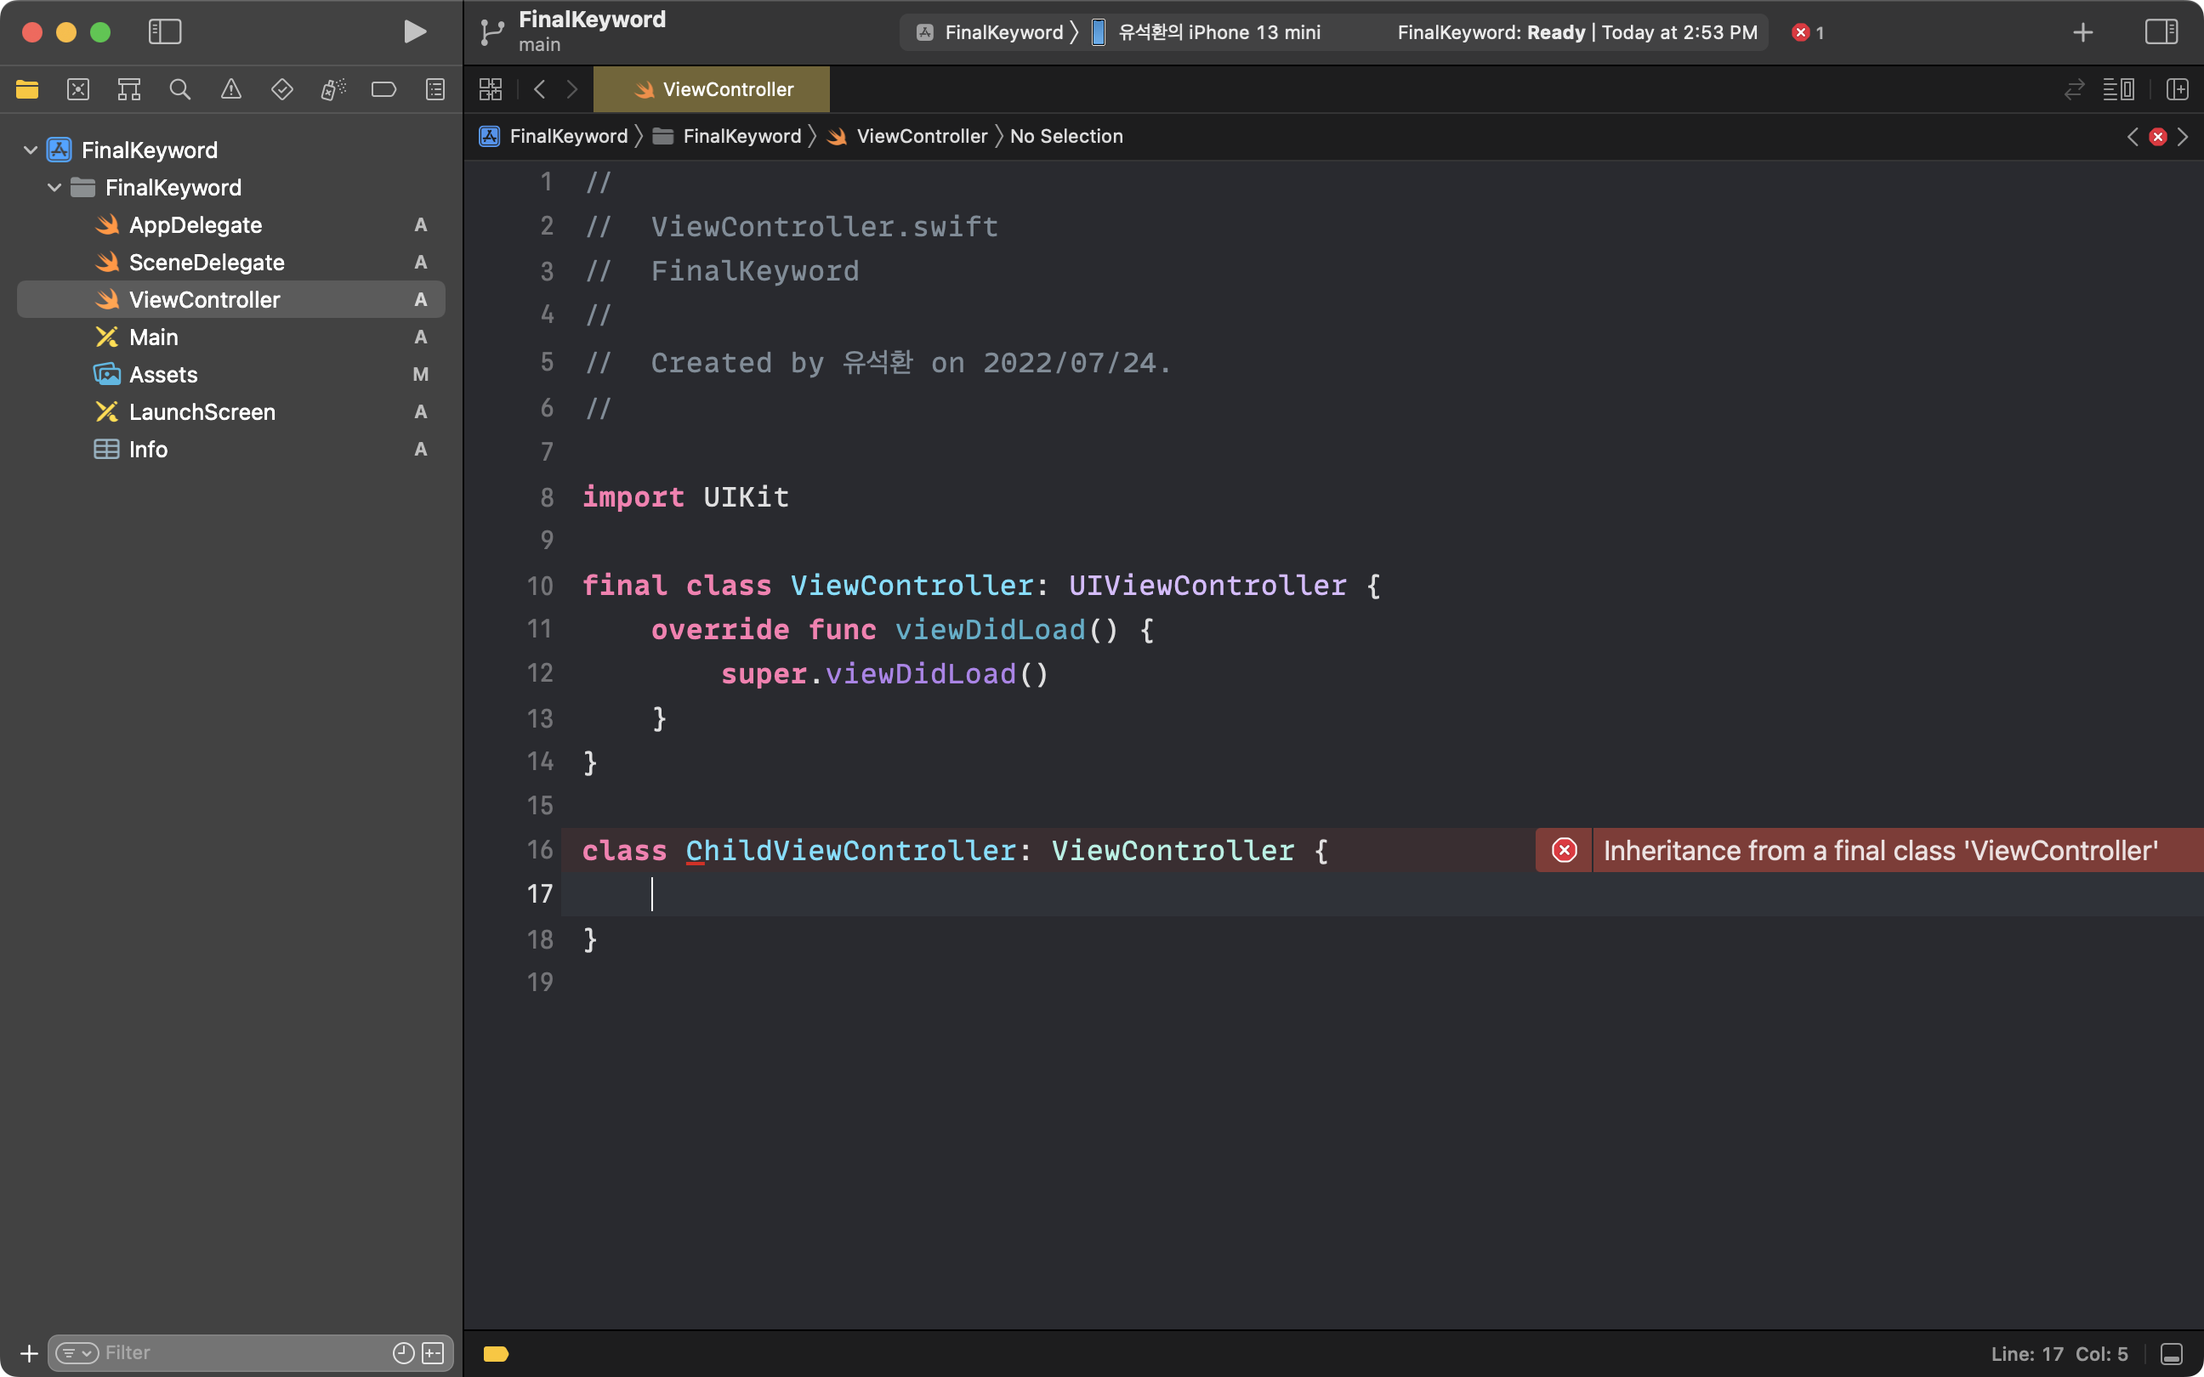
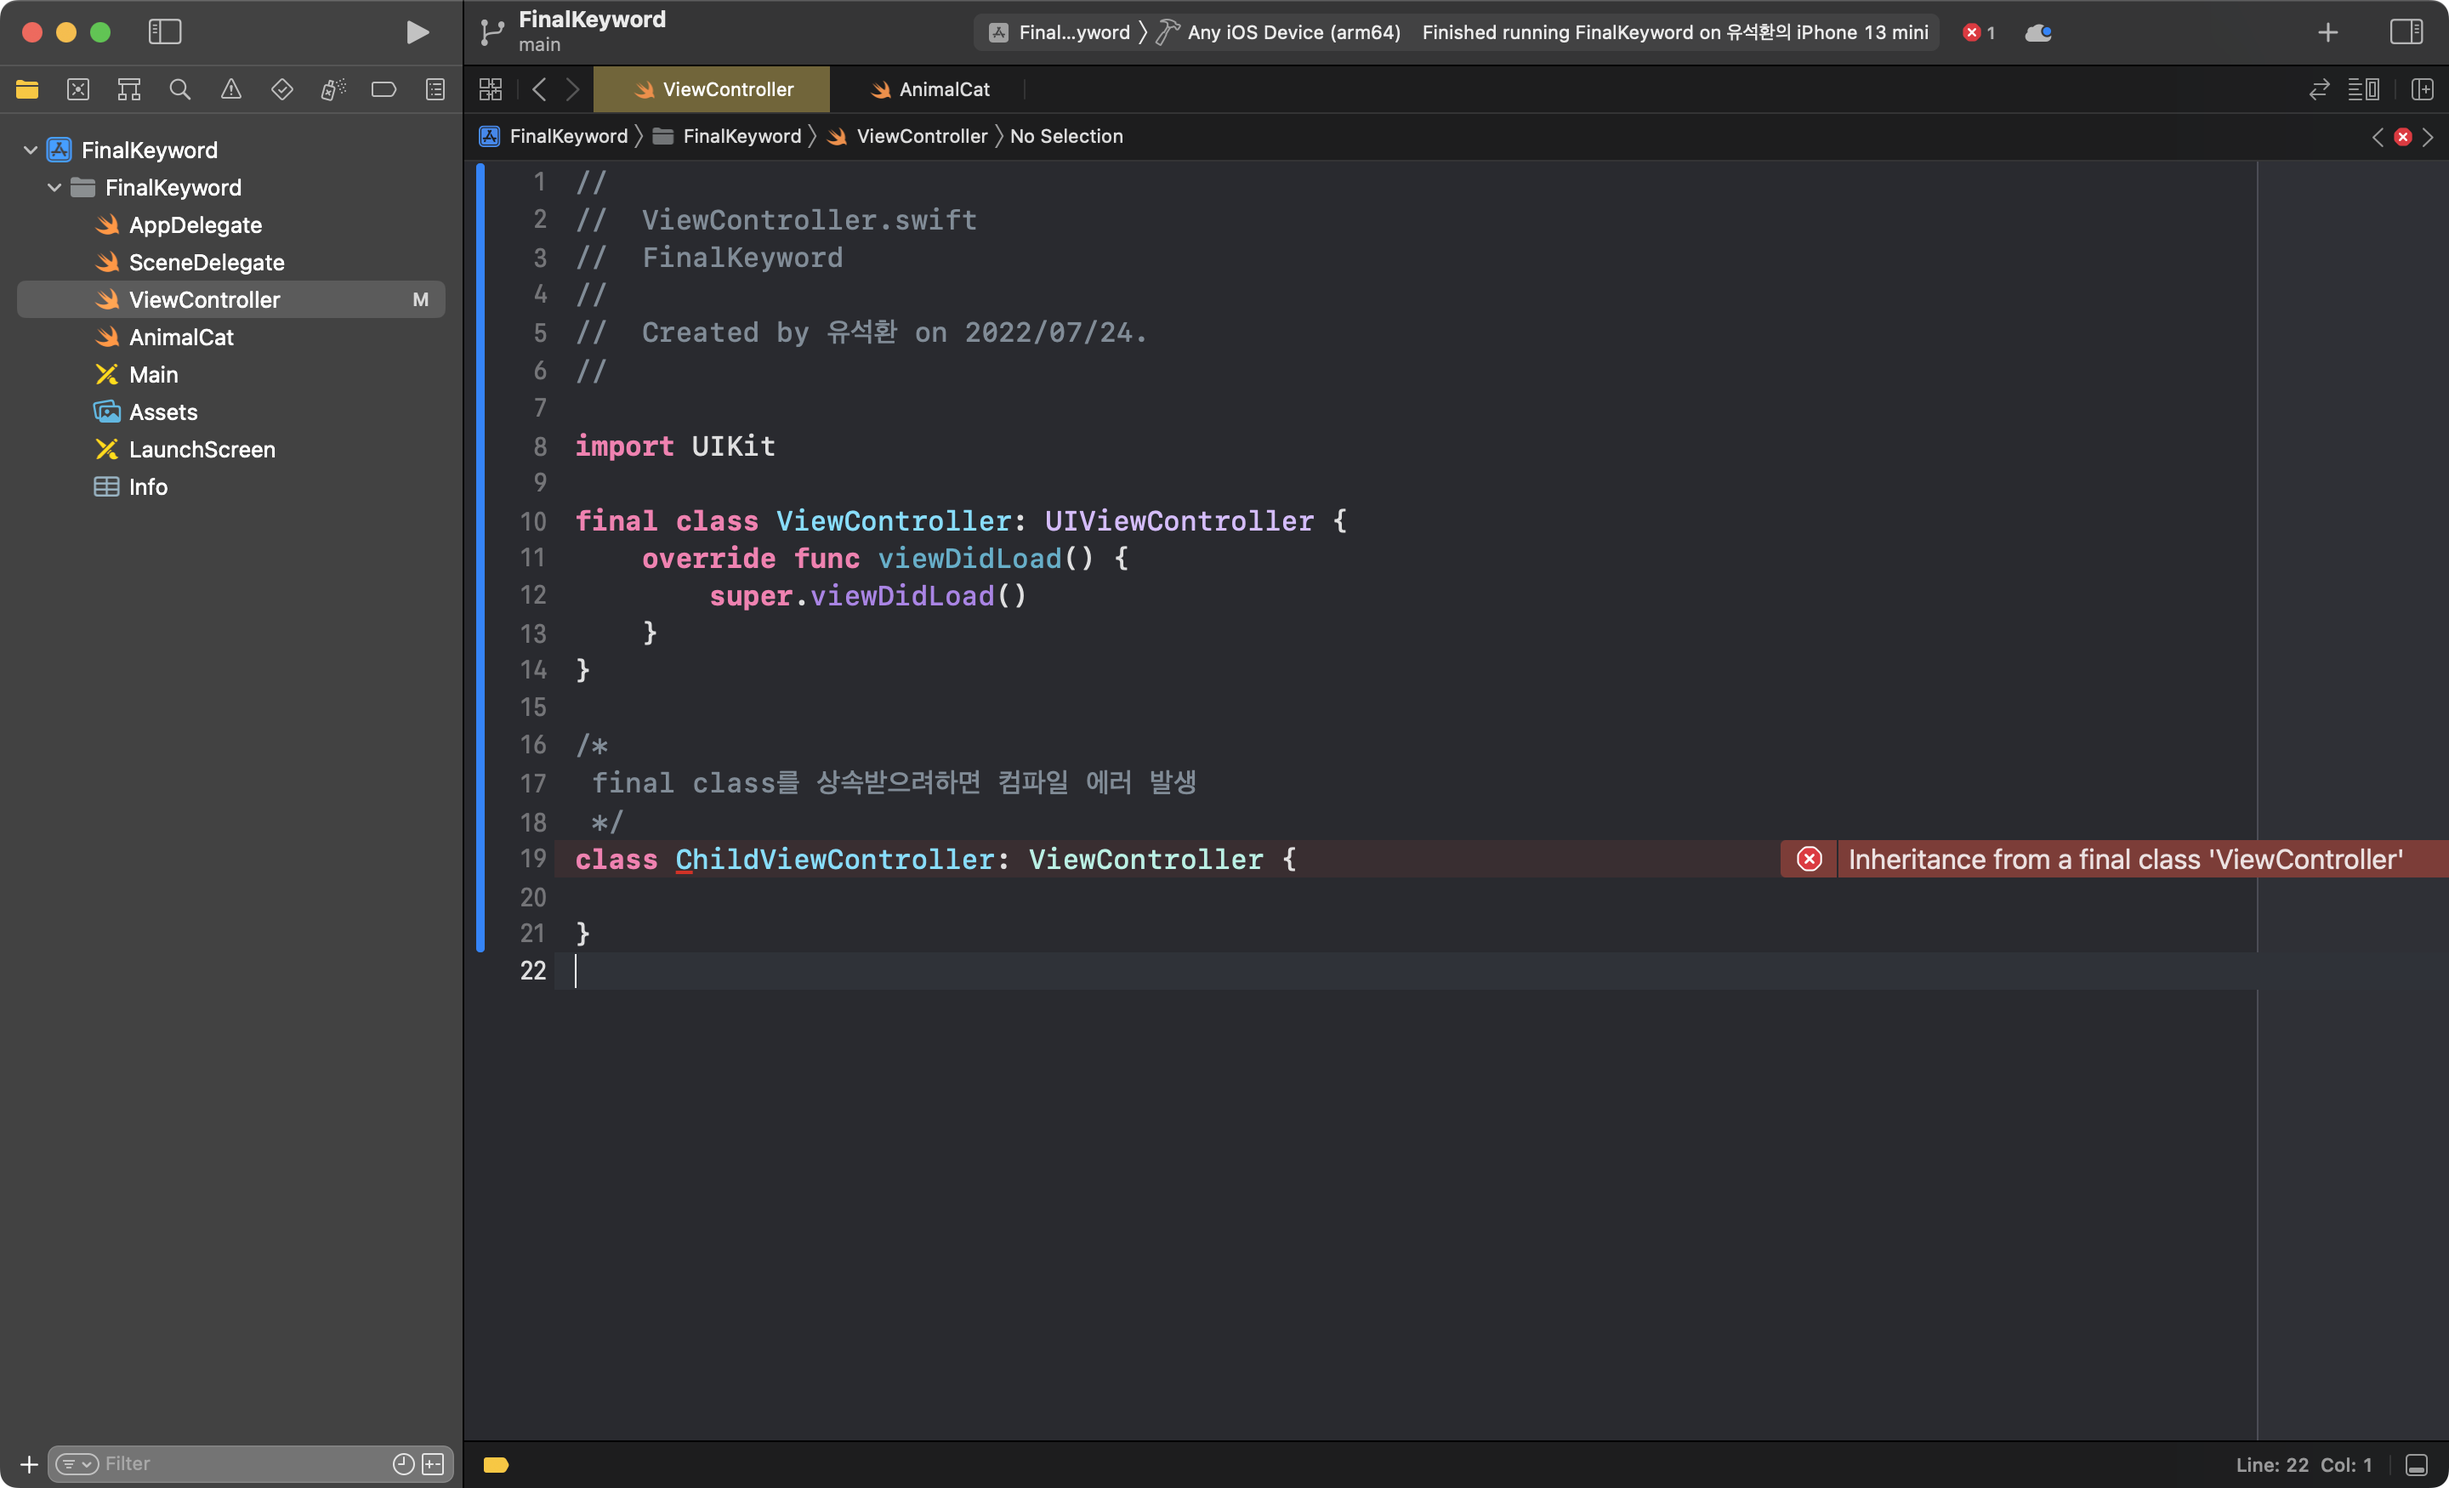
Update FinalKeyword

diff --git a/FinalKeyword/FinalKeyword/AnimalCat.swift b/FinalKeyword/FinalKeyword/AnimalCat.swift
@@ -17,9 +17,11 @@ class Cat: Animal {
 
 func doSomething() {
     let cat: Animal = Cat()
+
     cat.cry()
     /*
      Animal의 cry()를 호출할지, Cat의 cry()를 호출할지 결정하는 과정을 dispatch라 한다.
      클래스는 dynamic하게 동작하는 것이 디폴트이고, final로 선언하면 static으로 동작하게 할 수 있다.
+     간접 호출을 직접 호출로 바꿈으로써 성능 향상을 기대할 수 있다.
      */
 }

diff --git a/FinalKeyword/FinalKeyword/ViewController.swift b/FinalKeyword/FinalKeyword/ViewController.swift
@@ -16,6 +16,6 @@ final class ViewController: UIViewController {
 /*
  final class를 상속받으려하면 컴파일 에러 발생
  */
-//class ChildViewController: ViewController {
-//
-//}
+class ChildViewController: ViewController {
+
+}
